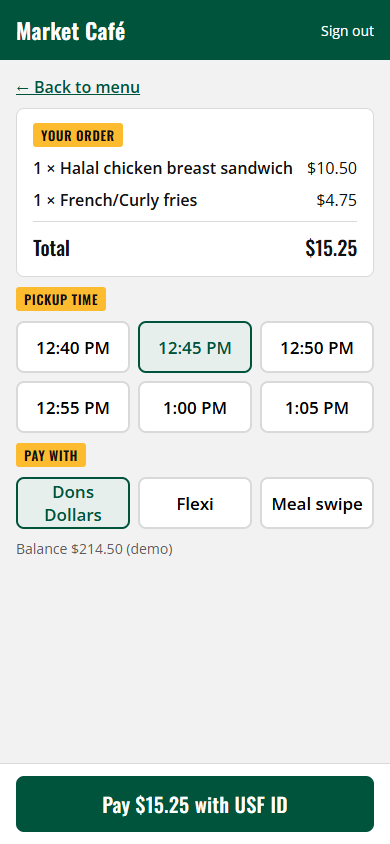
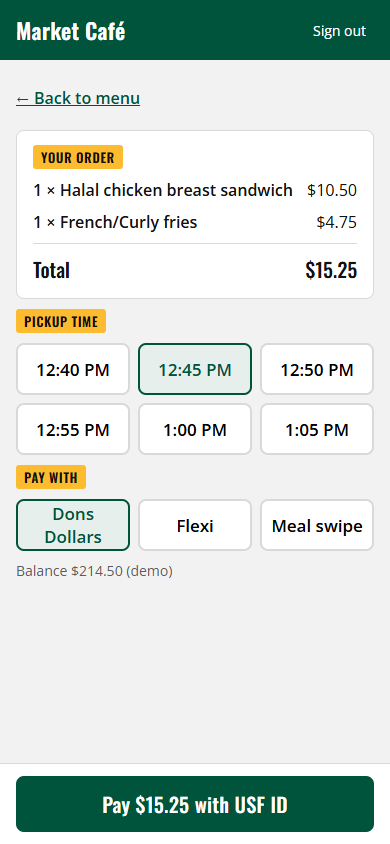
Review fixes: pickup slots within café hours, no shared cubbies, board cap, capitalised names, 44px tap targets

Changed region(s): [[0.0308, 0.0924, 0.9846, 0.7085], [0.8, 0.0308, 0.9538, 0.0616]]

diff --git a/src/menu.ts b/src/menu.ts
@@ -8,24 +8,39 @@ const toMinutes = (hhmm: string) => {
   return h * 60 + m
 }
 
-/** Daypart open at `date`, else the next one today, else Lunch (so demos work any time). */
+const PREP_MINUTES = 15
+
+/** Earliest pickup (now + prep time) as minutes since midnight; may exceed 24h. */
+const earliest = (date: Date) => date.getHours() * 60 + date.getMinutes() + PREP_MINUTES
+
+/** True when every daypart today is over, so orders are for tomorrow. */
+const closedForToday = (date: Date) => menu.dayparts.every((d) => earliest(date) > toMinutes(d.end))
+
+/** Daypart you can still order for today (open now or next), else tomorrow's Lunch. */
 export function daypartFor(date = new Date()): Daypart {
-  const now = date.getHours() * 60 + date.getMinutes()
+  const t = earliest(date)
   return (
-    menu.dayparts.find((d) => now >= toMinutes(d.start) && now < toMinutes(d.end)) ??
-    menu.dayparts.find((d) => now < toMinutes(d.start)) ??
+    menu.dayparts.find((d) => t <= toMinutes(d.end)) ??
     menu.dayparts.find((d) => d.label === 'Lunch') ??
     menu.dayparts[0]
   )
 }
 
-/** Next `count` pickup slots, every 5 min, starting ≥15 min from now (kitchen prep time). */
+/** Up to `count` pickup slots every 5 min inside the daypart's hours, ≥15 min from now. */
 export function pickupSlots(count = 6, from = new Date()): Date[] {
-  const first = new Date(from.getTime() + 15 * 60_000)
-  first.setSeconds(0, 0)
-  first.setMinutes(Math.ceil(first.getMinutes() / 5) * 5)
-  return Array.from({ length: count }, (_, i) => new Date(first.getTime() + i * 5 * 60_000))
+  const dp = daypartFor(from)
+  const day = new Date(from)
+  day.setHours(0, 0, 0, 0)
+  if (closedForToday(from)) day.setDate(day.getDate() + 1)
+  const atMinutes = (m: number) => new Date(day.getTime() + m * 60_000)
+  const startMin = closedForToday(from) ? toMinutes(dp.start) : Math.max(earliest(from), toMinutes(dp.start))
+  const first = Math.ceil(startMin / 5) * 5
+  const slots: Date[] = []
+  for (let m = first; m <= toMinutes(dp.end) && slots.length < count; m += 5) slots.push(atMinutes(m))
+  return slots
 }
+
+export const isTomorrow = (d: Date, now = new Date()) => d.toDateString() !== now.toDateString()
 
 export const formatTime = (d: Date | string) =>
   new Date(d).toLocaleTimeString('en-US', { hour: 'numeric', minute: '2-digit' })

diff --git a/src/staff/StaffView.tsx b/src/staff/StaffView.tsx
@@ -19,7 +19,7 @@ const NEXT: Partial<Record<OrderStatus, { status: OrderStatus; label: string; cl
 
 const SAMPLE_STUDENTS = [
   { name: 'Diego', usfId: '20339876' },
-  { name: 'Maya', usfId: '20412253' },
+  { name: 'Ana', usfId: '20412253' },
   { name: 'Sam', usfId: '20387741' },
 ]
 
@@ -35,7 +35,7 @@ function addSampleOrder() {
   })
 }
 
-function OrderCard({ order }: { order: Order }) {
+function OrderCard({ order, usedCubbies }: { order: Order; usedCubbies: Set<number> }) {
   const next = NEXT[order.status]
   return (
     <div className="card stack">
@@ -56,7 +56,7 @@ function OrderCard({ order }: { order: Order }) {
           Cubby{' '}
           <select value={order.cubby} onChange={(e) => updateOrder(order.id, { cubby: Number(e.target.value) })}>
             {Array.from({ length: CUBBY_COUNT }, (_, i) => (
-              <option key={i + 1} value={i + 1}>
+              <option key={i + 1} value={i + 1} disabled={usedCubbies.has(i + 1) && order.cubby !== i + 1}>
                 {i + 1}
               </option>
             ))}
@@ -85,6 +85,7 @@ export default function StaffView() {
     else groups.push({ slot, orders: [o] })
   }
   const pickedUp = orders.length - open.length
+  const usedCubbies = new Set(open.map((o) => o.cubby))
 
   return (
     <>
@@ -104,7 +105,7 @@ export default function StaffView() {
             </span>
             <div className="staff-grid">
               {g.orders.map((o) => (
-                <OrderCard key={o.id} order={o} />
+                <OrderCard key={o.id} order={o} usedCubbies={usedCubbies} />
               ))}
             </div>
           </section>

diff --git a/src/student/student.css b/src/student/student.css
@@ -13,7 +13,7 @@
 .st-field { display: block; font-weight: 600; font-size: 14px; }
 .st-field .st-input { margin-top: 4px; }
 
-.st-link { background: none; border: 0; padding: 0; color: var(--green); font-weight: 600; text-decoration: underline; }
+.st-link { background: none; border: 0; padding: 0; min-height: 44px; color: var(--green); font-weight: 600; text-decoration: underline; }
 .st-small { font-size: 12px; color: var(--muted); }
 
 /* Active order card at top of menu */
@@ -24,7 +24,6 @@
 .st-row:first-of-type { border-top: 0; }
 .st-row-main { flex: 1; min-width: 0; }
 .st-name { font-weight: 600; }
-.st-name::first-letter { text-transform: uppercase; }
 .st-qty { display: flex; align-items: center; gap: 6px; }
 .st-qty button {
   width: 44px;
@@ -52,15 +51,13 @@
 .st-steps { display: flex; gap: 6px; }
 .st-step {
   flex: 1;
-  padding: 10px 4px;
-  border: 2px solid var(--line);
-  border-radius: var(--radius);
-  background: #fff;
+  padding: 8px 4px;
+  border-bottom: 4px solid var(--line);
   color: var(--muted);
   text-align: center;
   font-weight: 600;
   font-size: 14px;
 }
 .st-step.done { border-color: var(--green); color: var(--green); }
-.st-step.current { border-color: var(--green); background: var(--green); color: #fff; }
+.st-step.current { border-color: var(--green); color: var(--green); font-weight: 700; }
 .st-banner { background: var(--gold); border-radius: var(--radius); padding: 14px 16px; font-family: 'Oswald', sans-serif; font-weight: 600; font-size: 22px; }

diff --git a/src/board/ReadyBoard.tsx b/src/board/ReadyBoard.tsx
@@ -1,6 +1,8 @@
 import { useOrders } from '../store'
 import './board.css'
 
+const MAX_TILES = 8 // two rows on a 1280×720 TV; the rest show as "+N more"
+
 export default function ReadyBoard() {
   const orders = [...useOrders()].sort((a, b) => a.number - b.number)
   const ready = orders.filter((o) => o.status === 'ready')
@@ -16,7 +18,7 @@ export default function ReadyBoard() {
           <p className="board-empty">No orders ready yet.</p>
         ) : (
           <div className="board-grid">
-            {ready.map((o) => (
+            {ready.slice(0, MAX_TILES).map((o) => (
               <div key={o.id} className="board-tile">
                 <div className="board-number heading">{o.number}</div>
                 <div className="board-cubby">Cubby {o.cubby}</div>
@@ -24,6 +26,7 @@ export default function ReadyBoard() {
             ))}
           </div>
         )}
+        {ready.length > MAX_TILES && <p className="board-preparing">+{ready.length - MAX_TILES} more ready</p>}
         {preparing.length > 0 && (
           <p className="board-preparing">Preparing: {preparing.map((o) => o.number).join(', ')}</p>
         )}

diff --git a/src/student/Checkout.tsx b/src/student/Checkout.tsx
@@ -1,5 +1,5 @@
 import { useState } from 'react'
-import { formatPrice, formatTime, pickupSlots } from '../menu'
+import { formatPrice, formatTime, isTomorrow, pickupSlots } from '../menu'
 import { placeOrder } from '../store'
 import type { OrderLine, PaymentMethod, Student } from '../types'
 import { totalLabel } from './cart'
@@ -53,6 +53,7 @@ export default function Checkout({ student, lines, onBack, onPlaced }: Props) {
 
         <section className="stack">
           <span className="label">Pickup time</span>
+          {slots[0] && isTomorrow(slots[0]) && <p className="muted">Café is closed now: this is a pre-order for tomorrow.</p>}
           <div className="st-grid">
             {slots.map((d, i) => (
               <button key={d.toISOString()} className={`choice${i === slot ? ' selected' : ''}`} onClick={() => setSlot(i)}>

diff --git a/src/index.css b/src/index.css
@@ -24,14 +24,15 @@ input { font: inherit; }
 .header {
   background: var(--green);
   color: #fff;
-  padding: 14px 16px;
+  padding: 8px 16px;
+  min-height: 60px;
   display: flex;
   align-items: center;
   justify-content: space-between;
   gap: 12px;
 }
 .header h1 { font-size: 22px; letter-spacing: 0.3px; }
-.header a, .header button.link { color: #fff; font-size: 14px; background: none; border: 0; padding: 0; }
+.header a, .header button.link { color: #fff; font-size: 14px; background: none; border: 0; padding: 0 8px; min-height: 44px; display: inline-flex; align-items: center; }
 
 /* Page container: mobile-first, centered on desktop */
 .page { max-width: 560px; margin: 0 auto; padding: 16px 16px 120px; }

diff --git a/src/student/StudentApp.tsx b/src/student/StudentApp.tsx
@@ -27,6 +27,10 @@ export default function StudentApp() {
     : undefined
   const shownOrder = orders.find((o) => o.id === orderId) ?? activeOrder
 
+  // Order vanished (e.g. staff reset the demo): really go back to the menu step,
+  // so a later order doesn't make the menu jump to a confirmation on its own.
+  if (step === 'confirm' && !shownOrder) setStep('menu')
+
   let screen
   if (!student) screen = <SignIn />
   else if (step === 'checkout')

diff --git a/README.md b/README.md
@@ -25,7 +25,7 @@ Open the URL Vite prints (usually http://localhost:5173). For the demo, open thr
 | Staff view | `/#/staff` | Market Café staff behind the counter |
 | Ready board | `/#/board` | TV next to the cubby shelf |
 
-Other commands: `npm run build` (production build in `dist/`, deployable to any static host such as Vercel, Netlify or GitHub Pages), `npm run scrape` (refresh the menu, see below).
+Other commands: `npm run e2e` (drives the whole demo in headless Chrome, checks every step and refreshes the screenshots below; needs Google Chrome installed), `npm run build` (production build in `dist/`, deployable to any static host such as Vercel, Netlify or GitHub Pages), `npm run scrape` (refresh the menu, see below).
 
 ## Demo script
 
@@ -71,4 +71,6 @@ src/board/                ready board
 
 - Shared state only works between tabs of **one browser on one device**. A real pilot would need a small backend (e.g. Supabase or Firebase) so phones, the staff tablet and the TV share orders.
 - Mock sign-in and payment. A real version would integrate USF SSO and the campus card system (Dons Dollars / Flexi).
-- Pickup slots are the next six 5-minute slots, starting 15 minutes from now.
+- Pickup slots are the next six 5-minute slots, at least 15 minutes from now and inside the current meal period's hours. After dinner closes, orders are for tomorrow's lunch.
+- The mock sign-in is shared by all tabs, so only one student can be simulated at a time. Use **Add sample order** on the staff view to add other students' orders.
+- There are 24 cubbies. If all 24 are taken by open orders, new orders reuse cubby 1. Staff can't pick a cubby that another open order is using.
